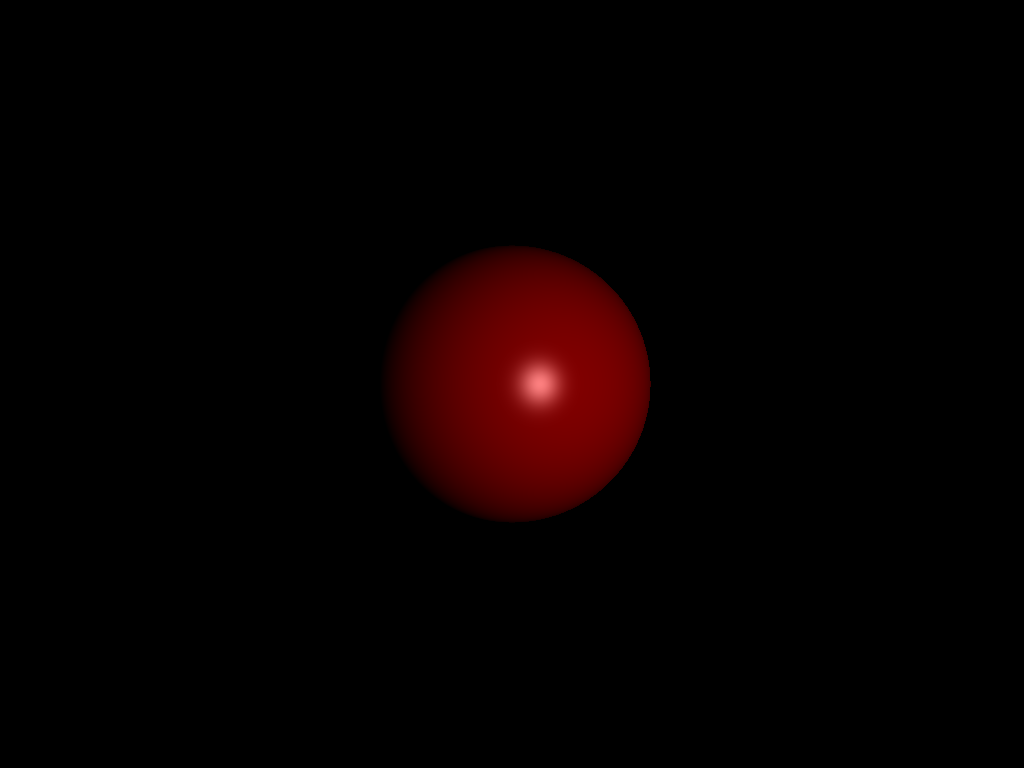
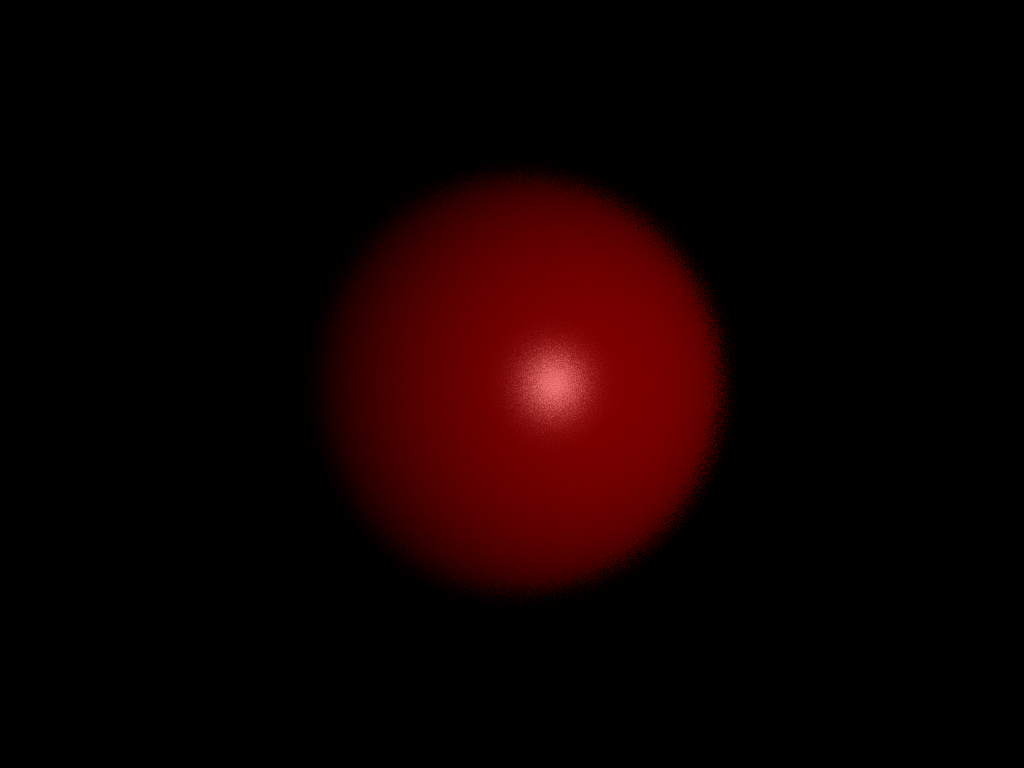
depth of field success, hard code apperture and focal length

Changed region(s): [[0.3125, 0.2188, 0.7188, 0.7812], [0.5, 0.4375, 0.5938, 0.5625]]

diff --git a/src/raytracer/raytracer.cpp b/src/raytracer/raytracer.cpp
@@ -141,6 +141,45 @@ std::uint8_t floatToUint8(float x) {
     return round(x * 255.f);
 }
 
+RGBA RayTracer::lensMaker(RayTracer::Ray  primaryRay, bool doPrint,RayTraceScene &scene,int count, std::map<std::string, RayTracer::textureInfo>& textureMap){
+
+    float redAcc = 0.f;
+    float greenAcc = 0.f;
+    float blueAcc = 0.f;
+
+    glm::vec4 focalPoint(glm::vec3(primaryRay.dir) * focalLength, 1.f);
+
+    for(int i = 0; i < sample; i++){
+
+        float newX = -0.5f + static_cast <float> (rand()) /( static_cast <float> (RAND_MAX/(0.5f-(-0.5f))));
+        float newY = -0.5f + static_cast <float> (rand()) /( static_cast <float> (RAND_MAX/(0.5f-(-0.5f))));
+        float newZ = -0.5f + static_cast <float> (rand()) /( static_cast <float> (RAND_MAX/(0.5f-(-0.5f))));
+
+        glm::vec4 offsetPos(newX, newY, newZ, primaryRay.pos[3]);
+
+        glm::vec3 newPosT = glm::vec3(primaryRay.pos) + apperture * glm::vec3(offsetPos);
+        glm::vec4 newPos(newPosT, primaryRay.pos[3]);
+
+        glm::vec4 newDir = glm::normalize(focalPoint - newPos);
+
+        Ray newRay{newPos, newDir};
+
+        RGBA update = scene.getUpdatedPixel(newRay, doPrint, scene, count, textureMap);
+
+        redAcc = update.r + redAcc;
+        greenAcc = update.g + greenAcc ;
+        blueAcc = update.b + blueAcc;
+
+
+
+    }
+
+
+    return RGBA{static_cast<uint8_t>((redAcc/6.f)), static_cast<uint8_t>((greenAcc/6.f)), static_cast<uint8_t>((blueAcc/6.f)), 255};
+
+
+}
+
 void RayTracer::DOF(RGBA *imageData, const RayTraceScene &scene){
 
 
@@ -182,7 +221,7 @@ void RayTracer::DOF(RGBA *imageData, const RayTraceScene &scene){
             Ray ray = Ray{eye, dir};
             Ray worldRay = scene.convertRaySpace(ray, scene.getCamera().getInverseViewMatrix());//Ray gets converted to world space
 
-            glm::vec4 focalPoint = worldRay.dir * focalLength;
+
 
 
             if ( j == 400 && i == 550) {
@@ -191,34 +230,8 @@ void RayTracer::DOF(RGBA *imageData, const RayTraceScene &scene){
 
             RayTraceScene scene1 = scene;
 
-            RGBA imageAcc;
-            float redAcc = 0.f;
-            float greenAcc = 0.f;
-            float blueAcc = 0.f;
-            RGBA update = scene.getUpdatedPixel(worldRay, doPrint, scene1, 0, textureMap);
 
-            for(int i = 0; i < 6; i++){
-                //calculate random offset for eye
-                // compute new origin vector using eye and offset
-                // compute new rayDir that starts at this new pos and is directed towards the focal point
-
-
-
-                redAcc = update.r + redAcc;
-                greenAcc = update.g + greenAcc ;
-                blueAcc = update.b + blueAcc;
-            }
-
-            glm::vec3 rgb(update.r, update.g, update.b);
-            glm::vec3 rgb2(redAcc/6.f, greenAcc/6.f, blueAcc/6.f);//vals dont look right
-
-            if(doPrint){
-            std::cout<< glm::to_string(rgb) << std::endl;
-                 std::cout<< glm::to_string(rgb2) << std::endl;
-            }
-            doPrint = false;
-
-            imageData[j * scene.width() + i] = RGBA{static_cast<uint8_t>((redAcc/6.f)), static_cast<uint8_t>((greenAcc/6.f)), static_cast<uint8_t>((blueAcc/6.f)), 255};
+            imageData[j * scene.width() + i] = lensMaker(worldRay, doPrint, scene1, 0, textureMap);/*RGBA{static_cast<uint8_t>((redAcc/6.f)), static_cast<uint8_t>((greenAcc/6.f)), static_cast<uint8_t>((blueAcc/6.f)), 255};*/
 
             //            RGBA{static_cast<uint8_t>(imageAcc.r /6.f), static_cast<uint8_t>(imageAcc.g/6.f), static_cast<uint8_t>(imageAcc.b/6.f), static_cast<uint8_t>(imageAcc.a/6.f)};
             //            doPrint = false;

diff --git a/src/raytracer/raytracer.h b/src/raytracer/raytracer.h
@@ -1,6 +1,7 @@
 #pragma once
 
 #include <glm/glm.hpp>
+#include <map>
 #include "utils/rgba.h"
 #include "utils/sceneparser.h"
 
@@ -13,8 +14,10 @@ class RayTraceScene;
 class RayTracer
 {
 public:
-    float focalLength = 1.5f;
+    float focalLength = 10.f;
+    float apperture = 0.1f;
     bool dofEnable = true;
+    int sample = 6;
 
     struct Config {
         bool enableShadow        = false;
@@ -71,6 +74,8 @@ public:
     // @param scene The scene to be rendered.
     void render(RGBA *imageData, const RayTraceScene &scene);
     glm::vec4 lensOffset();
+    RGBA lensMaker(RayTracer::Ray  worldRay, bool doPrint,RayTraceScene &scene,int count, std::map<std::string, RayTracer::textureInfo> &textureMap);
+
     void DOF(RGBA *imageData, const RayTraceScene &scene);
 
 private:
